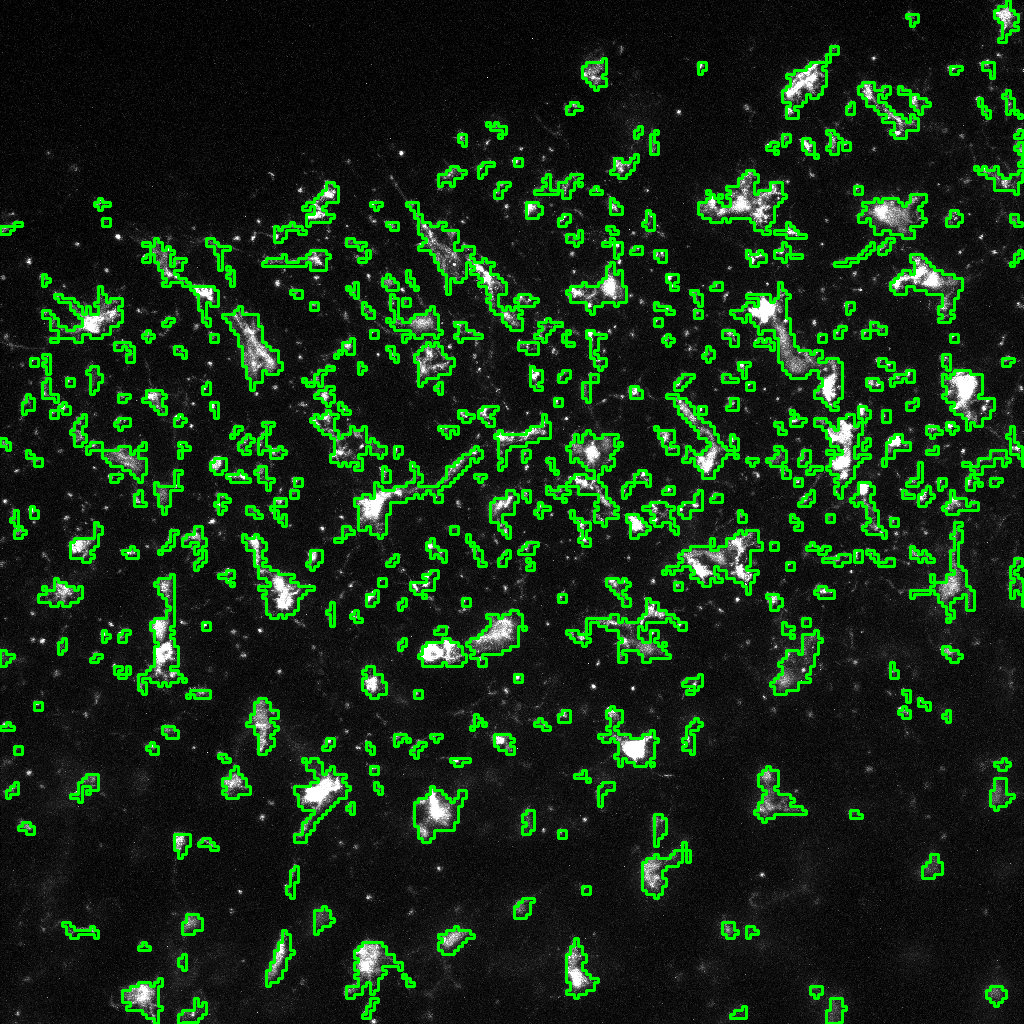
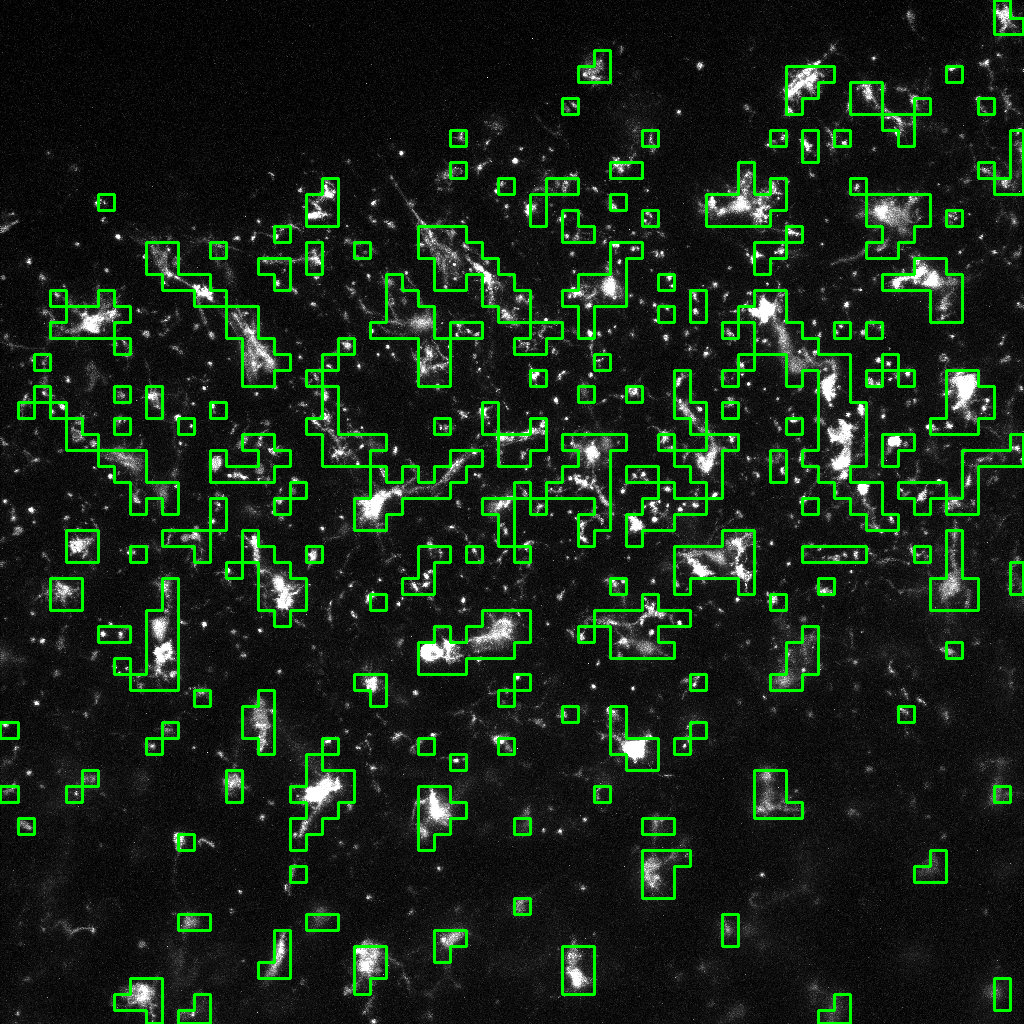
Adding contrast and brightness adjustment

diff --git a/Programming/MAIN_ microglia.py b/Programming/MAIN_ microglia.py
@@ -59,7 +59,7 @@ def image_import(folder_path, image_name):
 
     display_image('Original Image', imArray)
 
-    image_info('Original Image', imArray)
+    # image_info('Original Image', imArray)
 
 
     return imArray
@@ -80,13 +80,50 @@ def gray_conversion(imArray, image_name):
 
     display_image('Gray 8-bit Integer Image', imArrayG)
     
-    image_info('Gray_8_bit_Image', imArrayG)
+    # image_info('Gray_8_bit_Image', imArrayG)
 
     output_path = 'Programming/edited_images/' + image_name + '_gray.png'
     cv2.imwrite(output_path, imArrayG)
 
     return imArrayG
 
+
+def adjust_brightness_contrast(imArrayG):
+    """
+    Adjust brightness and contrast
+    Parameters:
+        imArrayG (array): grayscale 8-bit image array
+    Returns:
+        adjusted_image (array): grayscale 8-bit image array
+    """
+    # Find the maximum pixel intensity in the image
+    max_intensity = np.max(imArrayG)
+
+    # Define the target maximum intensity
+    # Determine the intensity with the most pixels
+    hist = cv2.calcHist([imArrayG], [0], None, [256], [0, 256])
+    peak_intensity = np.argmax(hist)
+    print('Peak Intensity: ' + str(peak_intensity))
+    std = imArrayG.std()
+    print('Standard Deviation: ' + str(std))
+    target_max_intensity = peak_intensity + 2 * std
+
+    # Calculate the ratio to adjust brightness and contrast
+    brightness_ratio = max_intensity / target_max_intensity
+    print('Brightness Ratio: ' + str(brightness_ratio))
+    contrast_ratio = 255 / max_intensity
+    print('Contrast Ratio: ' + str(contrast_ratio))
+
+    # Adjust brightness and contrast
+    adjusted_image = cv2.convertScaleAbs(imArrayG, alpha=brightness_ratio, beta=0)
+    adjusted_image = cv2.convertScaleAbs(adjusted_image, alpha=contrast_ratio, beta=0)
+
+    # Display the adjusted image
+    display_image('Adjusted Image (Brightness and Contrast)', adjusted_image)
+
+    image_info('Adjusted_Image', adjusted_image)
+
+    return adjusted_image
 
 def discrete_wavelet_transform(imArrayG, n, wavelet):
     """
@@ -124,7 +161,7 @@ def reconstrucuted_images(coeffs, n, wavelet, image_name):
 
     display_image('Approx Coefficients Only Reconstructed Image', reconstructed_image_A)
 
-    image_info('Approx_Coefficients_Image', reconstructed_image_A)
+    # image_info('Approx_Coefficients_Image', reconstructed_image_A)
     
     output_path = 'Programming/edited_images/' + image_name + '_prepared.png'
     cv2.imwrite(output_path, reconstructed_image_A)
@@ -225,7 +262,7 @@ def binary_thresholding(prepared_image):
     Returns:
         thresh (array): thresholded image array
     """
-    threshold = prepared_image.mean() + 1/2 * prepared_image.std() # threshold value
+    threshold = prepared_image.mean() + 1 * prepared_image.std() # threshold value
     print('Mean: ' + str(prepared_image.mean()))
     print('Standard Deviation: ' + str(prepared_image.std()))
     # threshold = 37
@@ -236,7 +273,7 @@ def binary_thresholding(prepared_image):
     # Display thresholded image
     display_image('Binary Thresholded Image', thresh)
 
-    image_info('Binary_Thresholded_Image', thresh)
+    # image_info('Binary_Thresholded_Image', thresh)
 
     return thresh
 
@@ -267,14 +304,14 @@ def otsu_thresholding(prepared_image):
 def cell_identification(binary_image, imArrayG, image_name):
     # Morphological operations
     kernel_open = np.ones((2, 2), np.uint8) # kernel with all ones
-    kernel_dilation = np.ones((2, 2), np.uint8)
+    kernel_dilation = np.ones((5, 5), np.uint8)
     kernel_close = np.ones((2, 2), np.uint8)
 
     morphed = cv2.morphologyEx(binary_image, cv2.MORPH_OPEN, kernel_open) # Removes small white regions (noise in background)
     morphed = cv2.dilate(morphed, kernel_dilation, iterations = 1) # Increases white regions (joins broken cells)
     morphed = cv2.morphologyEx(morphed, cv2.MORPH_CLOSE, kernel_close) # Removes small black holes (noise in cells)
     
-    #morphed = binary_image
+    morphed = binary_image
     display_image('Morphed Image', morphed)
     
     # Contour detection
@@ -289,7 +326,7 @@ def cell_identification(binary_image, imArrayG, image_name):
 
 
     # Minimum contour area threshold - removes small contours
-    min_contour_area = 50
+    min_contour_area = 500
 
     # Filter contours based on area
     filtered_contours = []
@@ -323,7 +360,7 @@ def cell_identification(binary_image, imArrayG, image_name):
 
 def main():
     folder_path = 'Programming/raw_images/'
-    image_name = 'fig12b'
+    image_name = 'fig10'
 
     # Import image
     imArray = image_import(folder_path, image_name)
@@ -331,11 +368,14 @@ def main():
     # Convert image to grayscale and convert to 8-bit integer
     imArrayG = gray_conversion(imArray, image_name)
 
+    # Adjust brightness and contrast
+    adjusted_image = adjust_brightness_contrast(imArrayG)
+
     n = 2
     wavelet = 'haar'
     
     # Complete DWT
-    coeffs = discrete_wavelet_transform(imArrayG, n, wavelet)
+    coeffs = discrete_wavelet_transform(adjusted_image, n, wavelet)
 
     # Reconstruct images with only approximation and detail coefficients respectively
     prepared_image = reconstrucuted_images(coeffs, n, wavelet, image_name)
